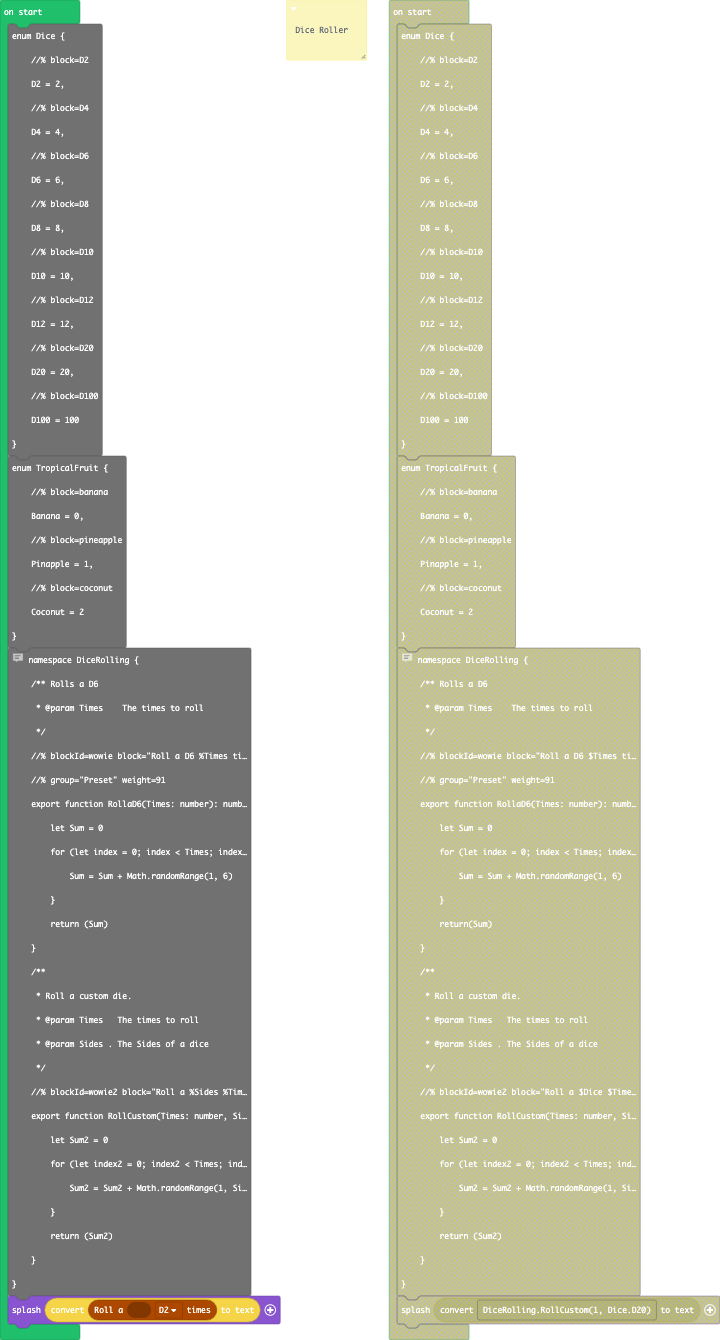
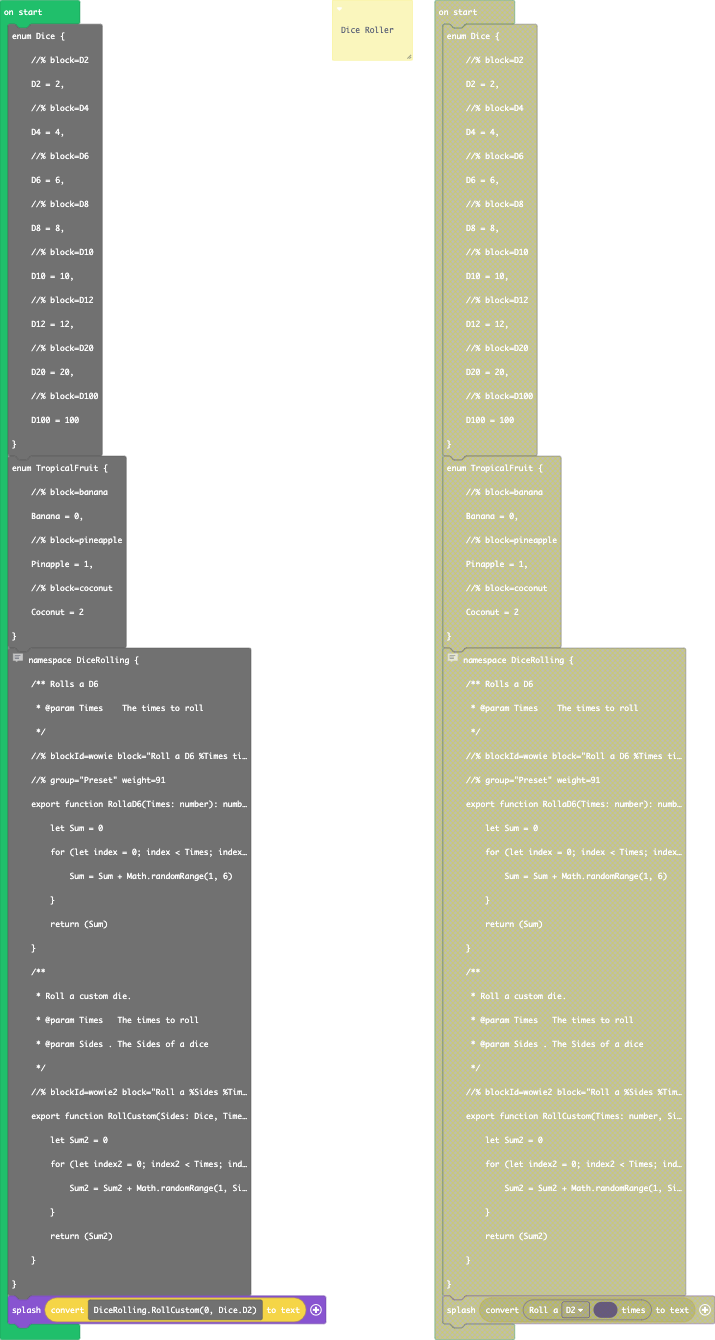
Update main.blocks, main.ts

diff --git a/main.ts b/main.ts
@@ -27,8 +27,8 @@ enum TropicalFruit {
     //% block=coconut
     Coconut = 2
 }
-// % color="#ad4800" icon="\u2684" block="Dice"
-// weight=42
+//% color="#ad4800" icon="\u2684" block="Dice"
+//% weight=42
 namespace DiceRolling {
     /** Rolls a D6
      * @param Times    The times to roll
